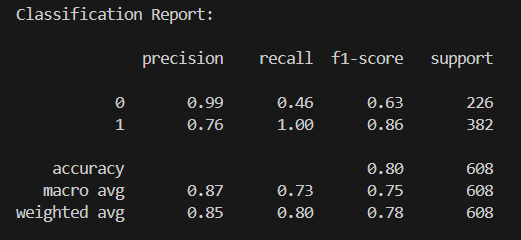
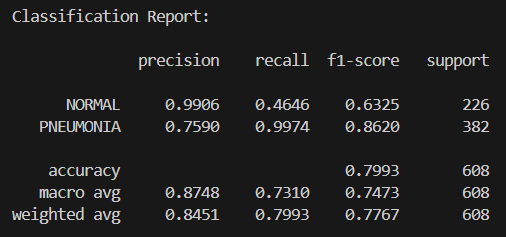
fix classification report

diff --git a/Pytorch_DenseNet121.py b/Pytorch_DenseNet121.py
@@ -235,7 +235,7 @@ if training_accuracy:
 
 # Classification report
 print("\nClassification Report:\n")
-print(classification_report(all_labels, all_preds))
+print(classification_report(all_labels, all_preds, digits=4, target_names=train_dataset.classes))
 
 # Confusion matrix plot
 cm = confusion_matrix(all_labels, all_preds)

diff --git a/Pytorch_ResNet50.py b/Pytorch_ResNet50.py
@@ -235,7 +235,7 @@ if training_accuracy:
 
 # Classification report
 print("\nClassification Report:\n")
-print(classification_report(all_labels, all_preds))
+print(classification_report(all_labels, all_preds, digits=4, target_names=train_dataset.classes))
 
 # Confusion matrix plot
 cm = confusion_matrix(all_labels, all_preds)

diff --git a/Pytorch_VGG16.py b/Pytorch_VGG16.py
@@ -235,7 +235,7 @@ if training_accuracy:
 
 # Classification report
 print("\nClassification Report:\n")
-print(classification_report(all_labels, all_preds))
+print(classification_report(all_labels, all_preds, digits=4, target_names=train_dataset.classes))
 
 # Confusion matrix plot
 cm = confusion_matrix(all_labels, all_preds)
